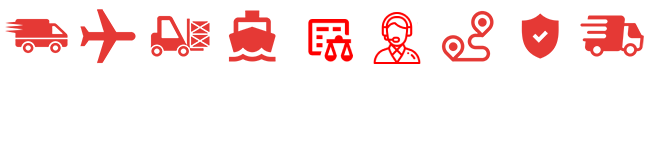
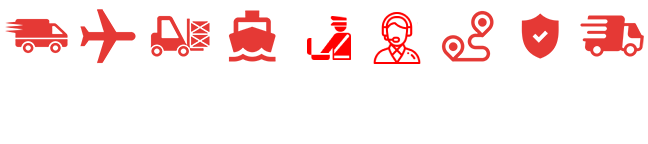
2nd modif

Changed region(s): [[0.463, 0.1111, 0.5556, 0.4444]]

diff --git a/index.html b/index.html
@@ -304,38 +304,61 @@
                     <div class="about-wrapper row">
                         <div class="col-md-6 res-m-bttm featured-tabs">
                             <div class="tab-custom">
-                                <ul class="nav nav-tabs" role="tablist">
-                                    <li role="presentation" class="active">
+                                <ul class="nav nav-tabs row" role="tablist">
+                                    <li
+                                        role="presentation"
+                                        style="width: 33% !important"
+                                    >
                                         <a
                                             href="#home"
                                             aria-controls="home"
                                             role="tab"
                                             data-toggle="tab"
+                                            style="height: 14.5rem"
                                             ><img
-                                                style="height: 6rem"
+                                                style="
+                                                    height: 4rem;
+                                                    margin-top: 1rem;
+                                                    margin-bottom: 0.5rem;
+                                                "
                                                 alt=""
                                                 src="image/tab-truck.png"
-                                            /><br />Dédouanement et transit</a
+                                            /><br />Dédouanement & transit</a
                                         >
                                     </li>
-                                    <li role="presentation">
+                                    <li
+                                        role="presentation"
+                                        style="
+                                            width: 33% !important;
+                                            height: 100% !important;
+                                        "
+                                    >
                                         <a
                                             href="#profile"
                                             aria-controls="profile"
                                             role="tab"
                                             data-toggle="tab"
+                                            style="height: 14.5rem !important"
                                             ><img
                                                 alt=""
-                                                src="image/tab-plane.png"
-                                            /><br />Transport</a
-                                        >
+                                                src="image/tab-plane.png" /><br /><span
+                                                >Transport</span
+                                            ><br
+                                        /></a>
                                     </li>
-                                    <li role="presentation">
+                                    <li
+                                        style="
+                                            width: 34% !important;
+                                            height: 100% !important;
+                                        "
+                                        role="presentation"
+                                    >
                                         <a
                                             href="#messages"
                                             aria-controls="messages"
                                             role="tab"
                                             data-toggle="tab"
+                                            style="height: 14.5rem !important"
                                             ><img
                                                 alt=""
                                                 src="image/tab-ware.png"
@@ -365,10 +388,7 @@
                                             autorités douanières, en tant
                                             qu’expert en dédouanements et
                                             transit de tous types de
-                                            produits.<br />Les prestations ITRAD
-                                            incluent toutes les démarches
-                                            douanières, des plus simples aux
-                                            plus complexes
+                                            produits.<br />
                                         </p>
                                     </div>
                                     <div
@@ -422,17 +442,16 @@
                                     d'un échange commercial réussi
                                 </h2>
                                 <p>
-                                    ITRAD est un commissionnaire en douane
-                                    agréé, spécialiste en dédouanement et
-                                    transit, assure un service de conseil et de
-                                    prise en charge de toutes les formalités à
-                                    l’import comme à l’export pour garantir un
-                                    commerce international réussiet ; et offre
-                                    des solutions de transport international
-                                    efficaces pour faciliter vos échanges
-                                    commerciaux.<br /><br />
-                                    Faites confiance à notre expertise pour
-                                    simplifier vos opérations commerciales.
+                                    ITARD sarl , ayant le statut de
+                                    commissionnaire en douane agréé, spécialisée
+                                    en dédouanement et transit, qui assure un
+                                    service de conseil et de prise en charge de
+                                    toutes les formalités douanière et offre des
+                                    solutions de transport international
+                                    efficaces pour faciliter vos opération
+                                    d’import et export.<br /><br />Faites
+                                    confiance à notre expertise pour simplifier
+                                    vos opérations commerciales.
                                 </p>
                             </div>
                         </div>
@@ -646,22 +665,21 @@
 
                                     <h4>Transit et Dédouanement</h4>
                                     <p>
-                                        Notre équipe des déclarants
-                                        expérimentées et agents de port et
-                                        aéroport qualifiées vous fournit une
-                                        assistance en douane professionnelle
-                                        pour vous aider à dédouaner vos
-                                        marchandises et vous simplifier les
-                                        procédures et les formalités
-                                        règlementaire à l’import et l’export.<br />Les
-                                        prestations de ITRAD incluent toutes les
-                                        démarches douanières, des plus simples
-                                        aux plus complexes : déclarations
-                                        douanière, titres de commerce
-                                        extérieure, documents de contrôle
-                                        technique, certificat d’origine,
-                                        autorisation spéciale, visite technique
-                                        ect ..
+                                        Notre équipe des déclarants expérimentés
+                                        et agents de port et aéroport qualifiés
+                                        vous fournit une assistance en douane
+                                        professionnelle pour vous aider à
+                                        dédouaner vos marchandises et à vous
+                                        simplifier les procédures et les
+                                        formalités réglementaires à l’import et
+                                        l’export.<br />Les prestations de ITRAD
+                                        incluent toutes les démarches
+                                        douanières, des plus simples aux plus
+                                        complexes : déclarations douanières,
+                                        titres de commerce extérieur, documents
+                                        de contrôle technique, certificat
+                                        d’origine, autorisation spéciale, visite
+                                        technique etc..
                                     </p>
                                 </div>
                             </li>
@@ -680,9 +698,9 @@
                                         assurer leur protection. Notre équipe
                                         supply chain utilise son expertise pour
                                         fournir des solutions d’entreposage
-                                        adaptées à vos besoins : magasins cale
-                                        sous douane, entrepôt publique, entrepôt
-                                        privé, entrepôt spéciale
+                                        adaptées à vos besoins : magasin cale
+                                        sous douane, entrepôt public, entrepôt
+                                        privé, entrepôt spécial.
                                     </p>
                                 </div>
                             </li>
@@ -695,14 +713,15 @@
                                     <p>
                                         En tant que commissionnaire en douane
                                         agréé, expert en législation et
-                                        réglementation douanière nous vous
+                                        réglementation douanière, nous vous
                                         conseillons sur les meilleures façons de
-                                        transporter et dédouaner vos produits en
-                                        respectant vos délais, vos contraintes
-                                        et le cadre réglementaires.<br />Nous
-                                        sommes disponibles 24/7 pour répondre à
-                                        vos questions, vous donner des conseils
-                                        par e-mail ou par téléphone.
+                                        transporter et de dédouaner vos produits
+                                        en respectant vos délais, vos
+                                        contraintes et le cadre réglementaires.
+                                        Nous sommes disponibles 24/7 pour
+                                        répondre à vos questions, vous donner
+                                        des conseils par e-mail ou par
+                                        téléphone.
                                     </p>
                                 </div>
                             </li>

diff --git a/service.html b/service.html
@@ -123,7 +123,10 @@
         <!-- End navabr -->
 
         <!-- Banner -->
-        <div class="banner inner-page service-banner">
+        <div
+            style="min-height: 30rem !important"
+            class="banner inner-page service-banner"
+        >
             <div class="banner-content">
                 <div class="container">
                     <div class="row">
@@ -207,22 +210,21 @@
 
                                     <h4>Transit et Dédouanement</h4>
                                     <p>
-                                        Notre équipe des déclarants
-                                        expérimentées et agents de port et
-                                        aéroport qualifiées vous fournit une
-                                        assistance en douane professionnelle
-                                        pour vous aider à dédouaner vos
-                                        marchandises et vous simplifier les
-                                        procédures et les formalités
-                                        règlementaire à l’import et l’export.<br />Les
-                                        prestations de ITRAD incluent toutes les
-                                        démarches douanières, des plus simples
-                                        aux plus complexes : déclarations
-                                        douanière, titres de commerce
-                                        extérieure, documents de contrôle
-                                        technique, certificat d’origine,
-                                        autorisation spéciale, visite technique
-                                        ect ..
+                                        Notre équipe des déclarants expérimentés
+                                        et agents de port et aéroport qualifiés
+                                        vous fournit une assistance en douane
+                                        professionnelle pour vous aider à
+                                        dédouaner vos marchandises et à vous
+                                        simplifier les procédures et les
+                                        formalités réglementaires à l’import et
+                                        l’export.<br />Les prestations de ITRAD
+                                        incluent toutes les démarches
+                                        douanières, des plus simples aux plus
+                                        complexes : déclarations douanières,
+                                        titres de commerce extérieur, documents
+                                        de contrôle technique, certificat
+                                        d’origine, autorisation spéciale, visite
+                                        technique etc..
                                     </p>
                                 </div>
                             </li>
@@ -241,9 +243,9 @@
                                         assurer leur protection. Notre équipe
                                         supply chain utilise son expertise pour
                                         fournir des solutions d’entreposage
-                                        adaptées à vos besoins : magasins cale
-                                        sous douane, entrepôt publique, entrepôt
-                                        privé, entrepôt spéciale
+                                        adaptées à vos besoins : magasin cale
+                                        sous douane, entrepôt public, entrepôt
+                                        privé, entrepôt spécial.
                                     </p>
                                 </div>
                             </li>
@@ -256,14 +258,15 @@
                                     <p>
                                         En tant que commissionnaire en douane
                                         agréé, expert en législation et
-                                        réglementation douanière nous vous
+                                        réglementation douanière, nous vous
                                         conseillons sur les meilleures façons de
-                                        transporter et dédouaner vos produits en
-                                        respectant vos délais, vos contraintes
-                                        et le cadre réglementaires.<br />Nous
-                                        sommes disponibles 24/7 pour répondre à
-                                        vos questions, vous donner des conseils
-                                        par e-mail ou par téléphone.
+                                        transporter et de dédouaner vos produits
+                                        en respectant vos délais, vos
+                                        contraintes et le cadre réglementaires.
+                                        Nous sommes disponibles 24/7 pour
+                                        répondre à vos questions, vous donner
+                                        des conseils par e-mail ou par
+                                        téléphone.
                                     </p>
                                 </div>
                             </li>

diff --git a/about-us.html b/about-us.html
@@ -123,7 +123,10 @@
         <!-- End navabr -->
 
         <!-- Banner -->
-        <div class="banner inner-page abt-us-banner">
+        <div
+            class="banner inner-page abt-us-banner"
+            style="min-height: 30rem !important"
+        >
             <div class="banner-content">
                 <div class="container">
                     <div class="row">
@@ -153,22 +156,16 @@
                                     ITRAD : tranisit & dédouanement
                                 </h2>
                                 <p>
-                                    ITRAD est un commissionnaire en douane agréé
-                                    spécialisé
-                                    <b>dans le dédouanement et le transit</b> à
-                                    l'échelle internationale. Avec notre réseau
-                                    mondial de partenaires et notre expertise
-                                    dans le domaine, nous sommes en mesure de
-                                    fournir des services de transport fiables et
-                                    efficaces pour répondre à tous vos besoins
-                                    d'expédition à travers le monde. Nous sommes
-                                    fiers de notre certification en tant que
-                                    commissionnaire en douane agréé, ce qui nous
-                                    permet de garantir un service de haut niveau
-                                    en matière de dédouanement pour une
-                                    expédition sûre et garantis de vos
-                                    marchandises. Chez ITRAD, nous sommes
-                                    déterminés à offrir un service exceptionnel.
+                                    ITARD sarl , ayant le statut de
+                                    commissionnaire en douane agréé, spécialisée
+                                    en dédouanement et transit, qui assure un
+                                    service de conseil et de prise en charge de
+                                    toutes les formalités douanière et offre des
+                                    solutions de transport international
+                                    efficaces pour faciliter vos opération
+                                    d’import et export<br /><br />Faites
+                                    confiance à notre expertise pour simplifier
+                                    vos opérations commerciales.
                                 </p>
                             </div>
                         </div>
@@ -249,18 +246,19 @@
 
         <!-- Call  action -->
         <div
-            class="call-action parallaxie has-parallax"
+            class="call-action has-parallax"
             style="background: url('image/call-action-bg.jpg')"
         >
             <div class="overly">
                 <div class="container">
                     <div class="row">
                         <h2>
-                            we are dedicated to provide the best services<br />
-                            at the lowest possible cost
+                            Chez ITRAD, nous nous engageons à fournir des
+                            services de qualité supérieure aux prix les plus
+                            compétitifs.
                         </h2>
-                        <a class="btn solid-btn" href="get-a-quote.html"
-                            >Get A Quote</a
+                        <a class="btn solid-btn" href="contact.html"
+                            >Contactez-Nous</a
                         >
                     </div>
                 </div>
